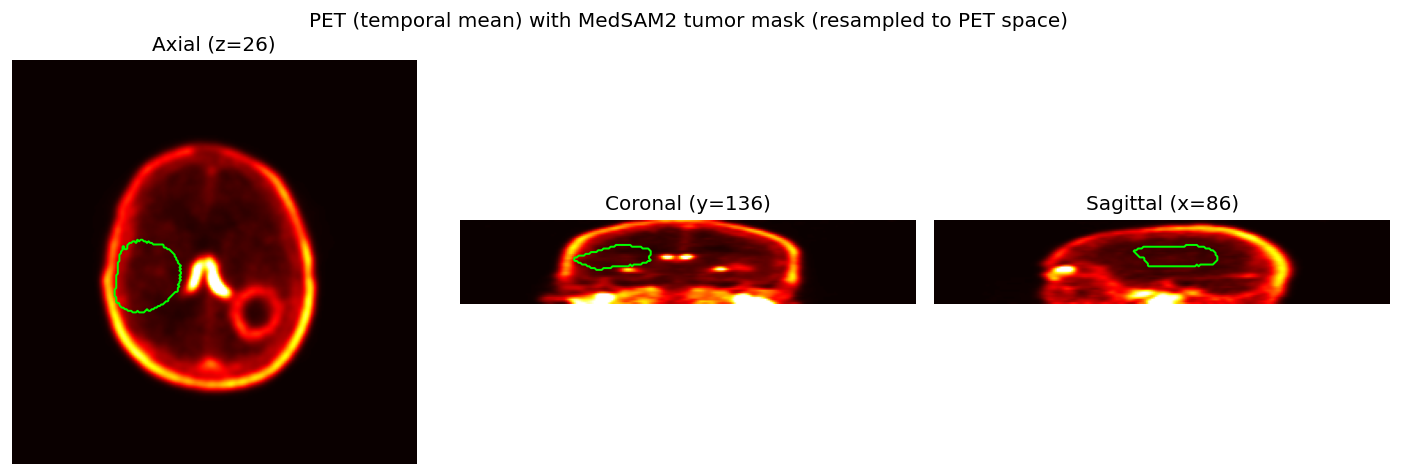
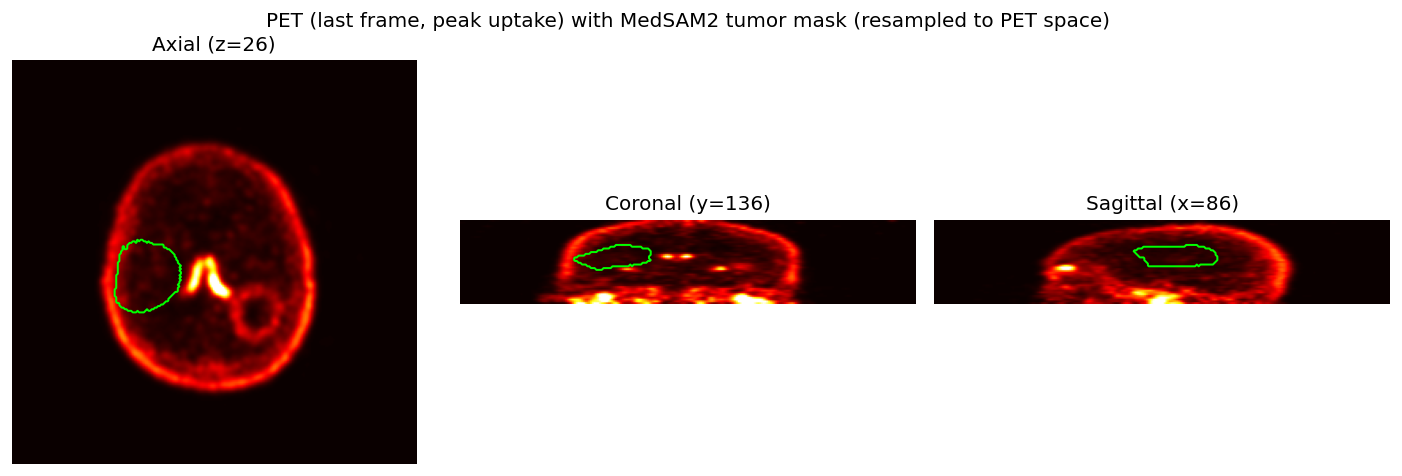
fix(figures): use PET last frame instead of temporal mean for tumor overlay

diff --git a/scripts/generate_pet_tumor_figure.py b/scripts/generate_pet_tumor_figure.py
@@ -1,11 +1,16 @@
-"""Generate figure 16: MedSAM2 tumor mask overlaid on PET temporal mean.
+"""Generate figure 16: MedSAM2 tumor mask overlaid on the PET last frame.
 
 The tumor mask lives in MR space. This script:
-1. Loads the PET DICOM and computes the duration-weighted temporal mean.
+1. Loads the PET DICOM and extracts the last temporal frame (peak tracer uptake).
 2. Loads the coregistration transform from docs/figures/coreg_transform.tfm.
 3. Loads the MR-space tumor mask from results/tumor_mask_mr_medsam2.nii.gz.
 4. Resamples the tumor mask to PET space via the inverse transform.
 5. Saves the overlay to docs/figures/16_pet_tumor_mask_overlay.png.
+
+The last frame is preferred over the duration-weighted temporal mean because the
+mean averages early-frame wash-in (low absolute uptake) with the late steady-state
+plateau, washing out the tumor signal. The last frame shows peak tracer
+concentration, which is what makes the lesion most visible in PET.
 
 Run:
     python scripts/generate_pet_tumor_figure.py
@@ -57,11 +62,13 @@ def main() -> None:
             "results/tumor_mask_mr_medsam2.nii.gz."
         )
 
-    # --- Load PET and compute duration-weighted temporal mean ---
+    # --- Load PET and extract the LAST FRAME (peak tracer uptake) ---
     print("Loading dynamic PET ...")
     pet_study = load_dynamic_pet(pet_dicom_path)
-    pet_mean_image = pet_study.image  # sitk.Image; duration-weighted temporal mean
-    print(f"  PET size (x,y,z): {pet_mean_image.GetSize()}")
+    last_frame_arr = pet_study.array[-1]  # shape (n_slices, rows, cols)
+    pet_last_image = sitk.GetImageFromArray(last_frame_arr.astype("float32"))
+    pet_last_image.CopyInformation(pet_study.image)  # preserve PET geometry
+    print(f"  PET size (x,y,z): {pet_last_image.GetSize()}  (last frame, peak uptake)")
 
     # --- Load coregistration transform (MR-space -> PET-space via inverse) ---
     print("Loading coregistration transform ...")
@@ -81,7 +88,7 @@ def main() -> None:
     print("Resampling tumor mask to PET space ...")
     tumor_in_pet = sitk.Resample(
         tumor_mask_mr,
-        pet_mean_image,
+        pet_last_image,
         inverse_transform,
         sitk.sitkNearestNeighbor,
         0.0,
@@ -93,11 +100,11 @@ def main() -> None:
     # --- Save overlay figure ---
     print(f"Saving overlay to {out_path} ...")
     save_pet_brain_mask_overlay(
-        pet_mean_image,
+        pet_last_image,
         tumor_in_pet,
         out_path,
         title=(
-            "PET (temporal mean) with MedSAM2 tumor mask "
+            "PET (last frame, peak uptake) with MedSAM2 tumor mask "
             "(resampled to PET space)"
         ),
     )
